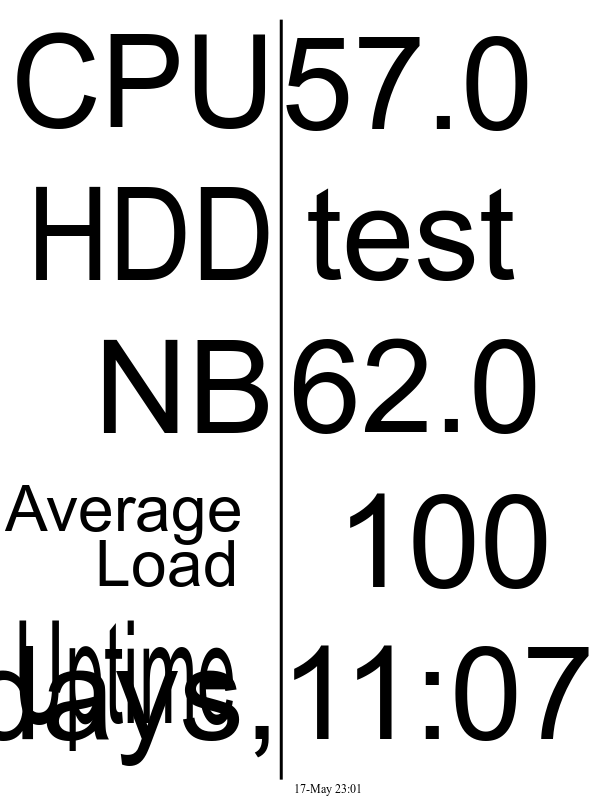
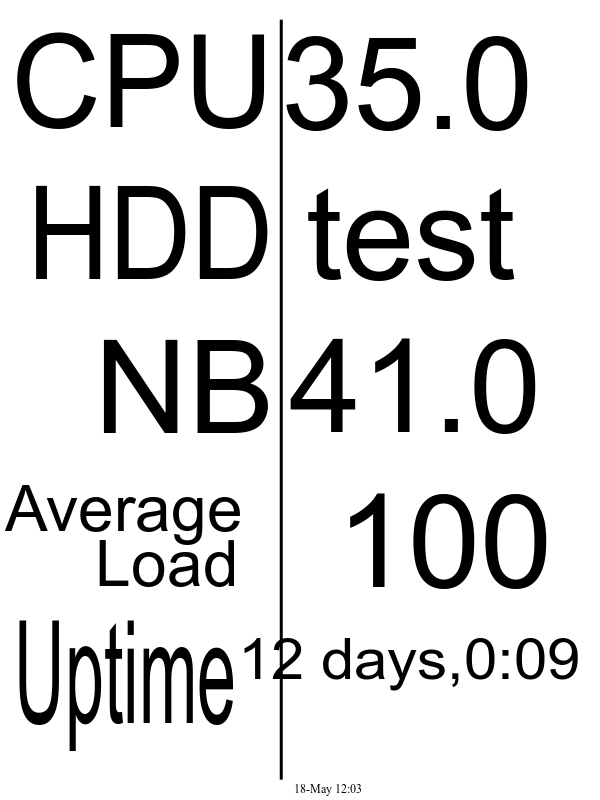
split uptime over 2 lines

diff --git a/server/cpu-script.py b/server/cpu-script.py
@@ -49,9 +49,8 @@ with open('/proc/uptime', 'r') as f:
     uptime_string = str(datetime.timedelta(seconds = uptime_seconds))
 
 uptime = colon_split(uptime_string)
-uptime1 = re.sub(r',\s' , ',\n', uptime)
-
-print ("uptime is %s" % uptime1)
+#uptime1 = re.sub(r',\s' , ',\n', uptime)
+uptime1 = uptime.split(', ')
 
 dtnow=datetime.datetime.now().strftime("%d-%b %H:%M")
 
@@ -62,7 +61,8 @@ output = output.replace('CPU_V',str(cpu_temp))
 output = output.replace('NB_V',str(nb_temp))
 output = output.replace('HDD_V',str(hdd_temp))
 output = output.replace('LOAD_V',str(load))
-output = output.replace('UPTIME_V',str(uptime1))
+output = output.replace('UPTIME1_V',str(uptime1[0]))
+output = output.replace('UPTIME2_V',str(uptime1[1]))
 
 # Insert current time
 # (thanks Jennifer http://www.shatteredhaven.com/2012/11/1347365-kindle-weather-display.html)
